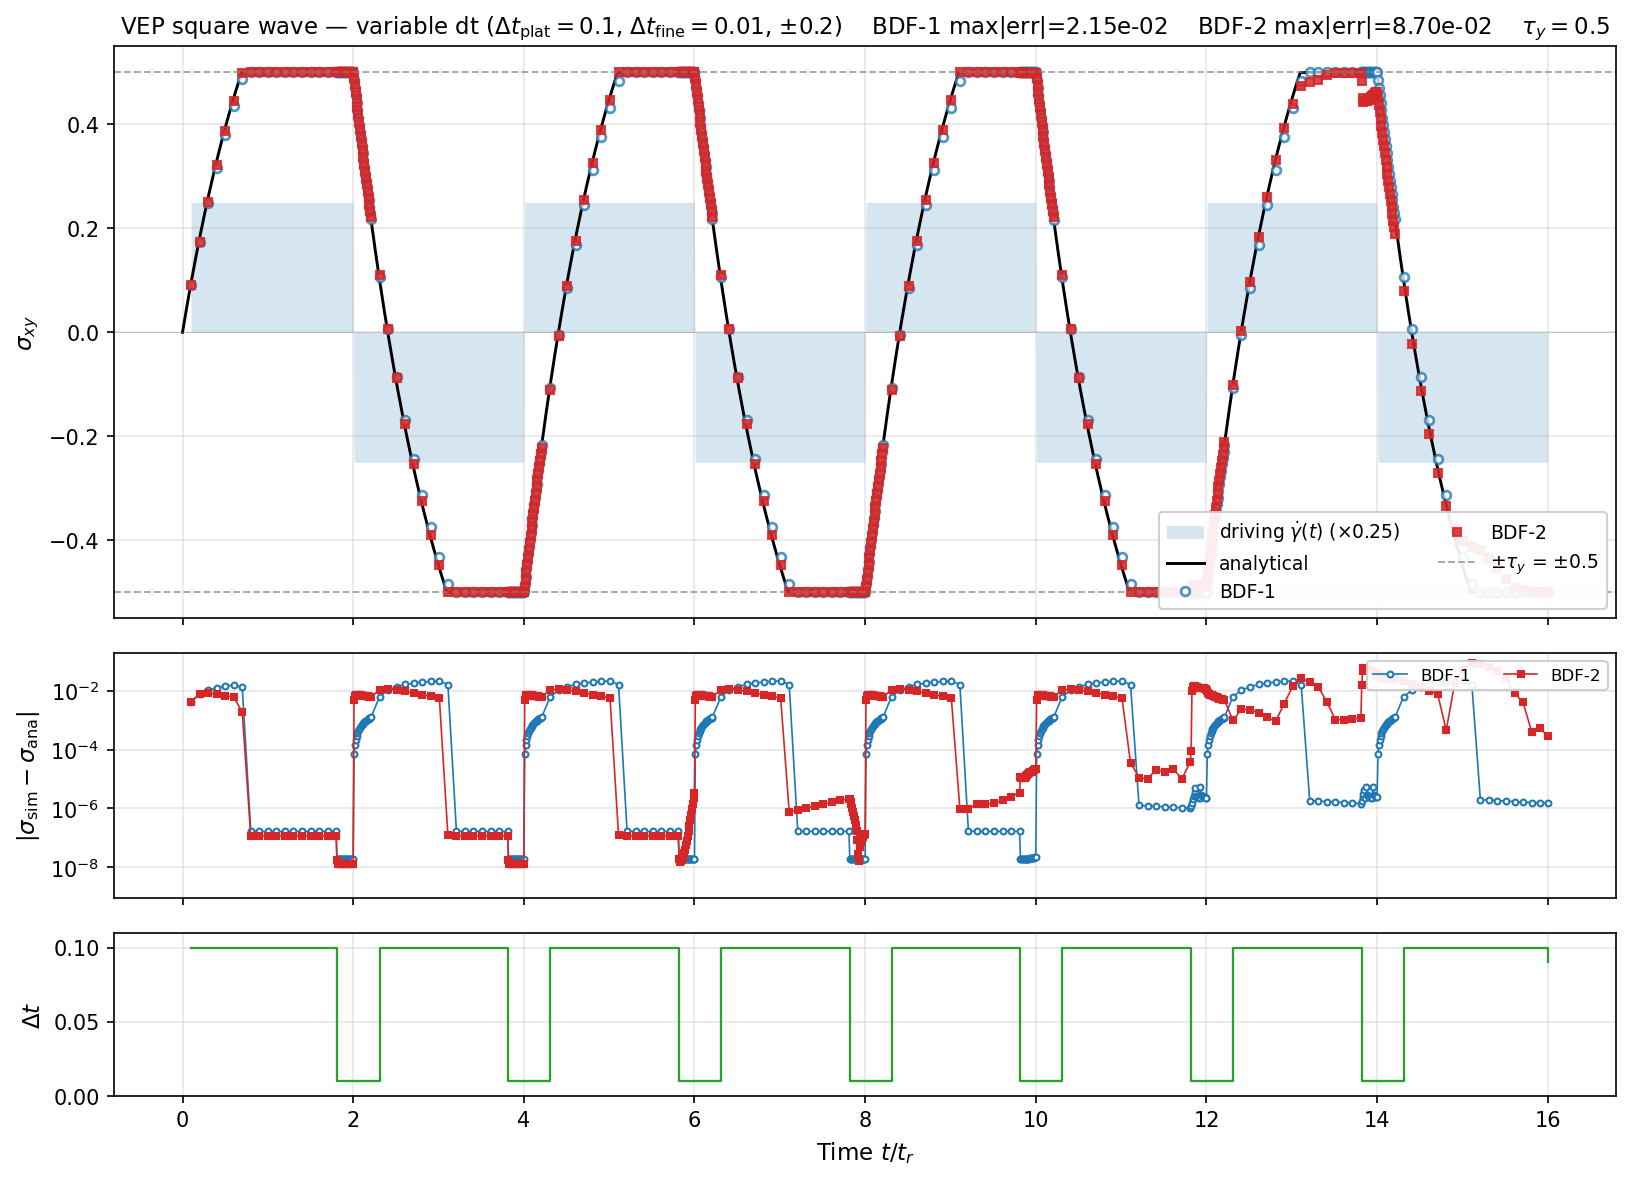
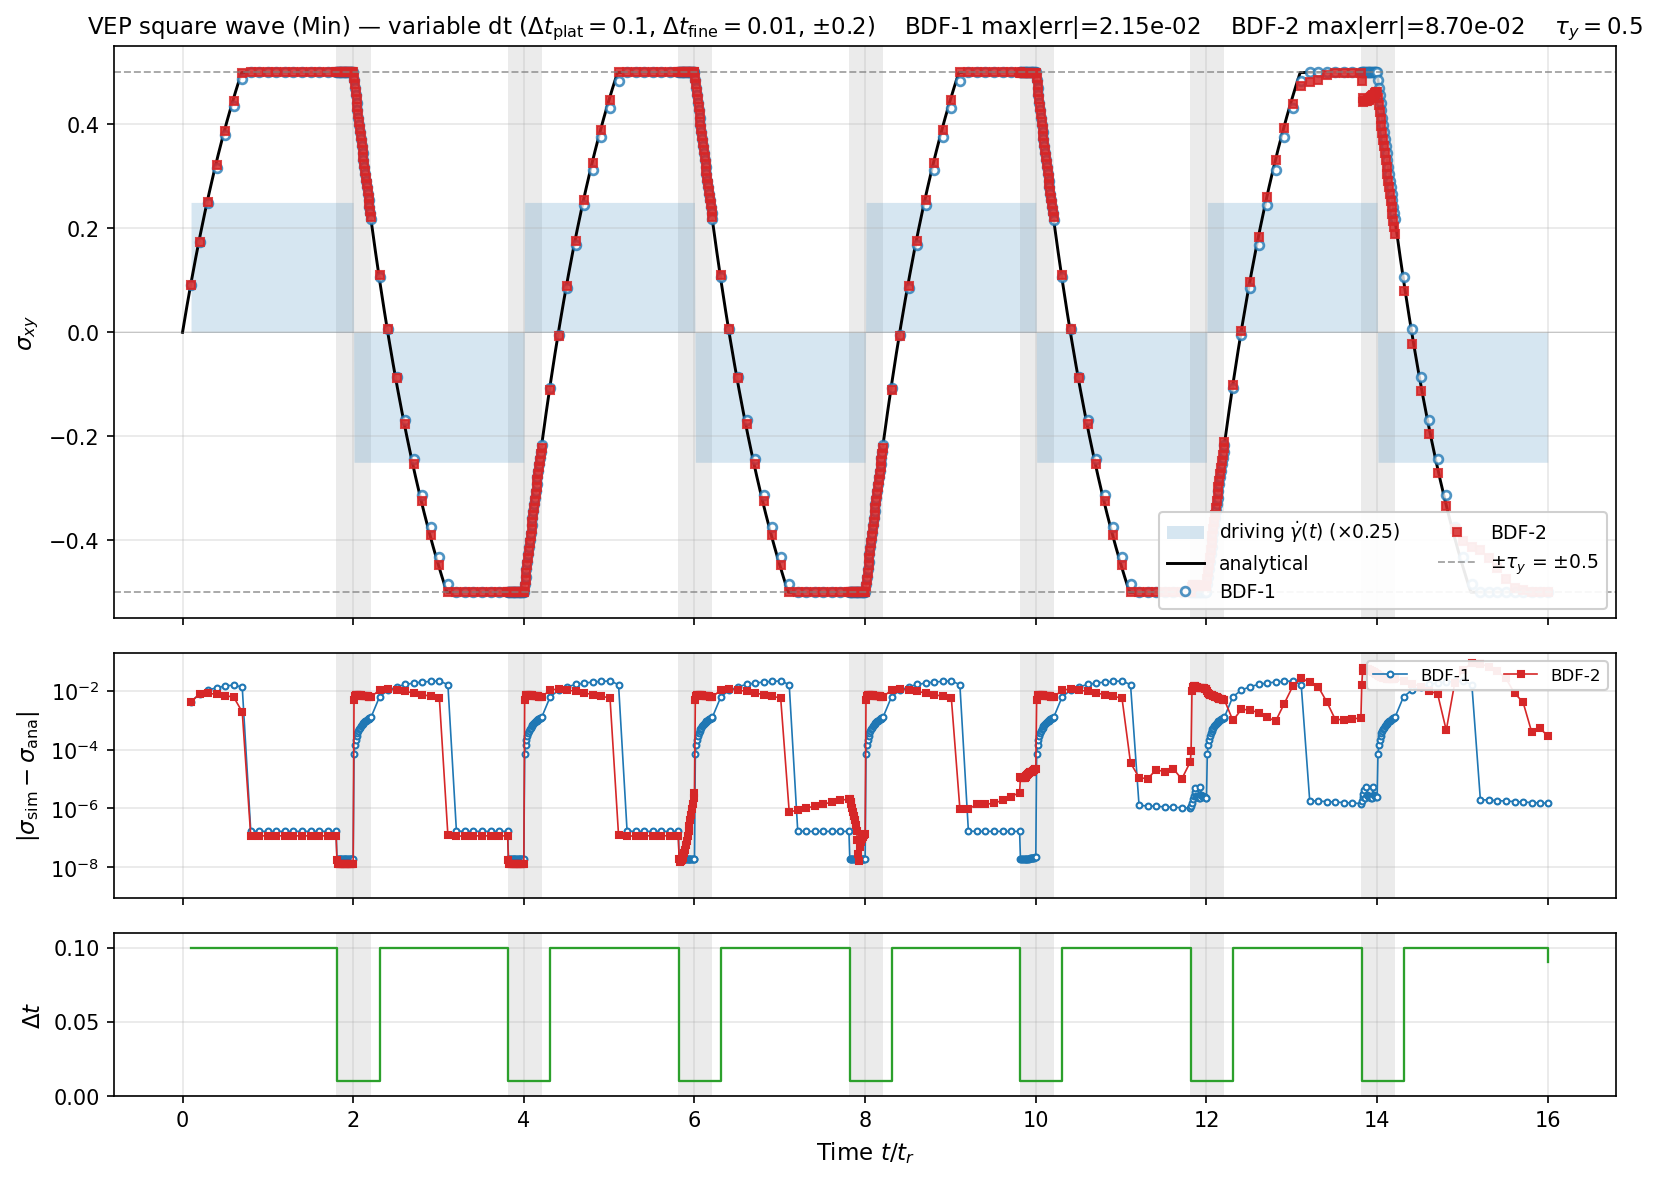
Variable-dt VEP softmin benchmark + fine-dt windows shaded on plots
Two changes:

1. New bench_vep_square_vardt_softmin.py — same variable-dt schedule
   as Min and smooth, with yield_mode="softmin" (default δ=0.1).

   Comparing peak |σ| across yield modes (variable dt, fine=0.01·t_r
   in ±0.20·t_r window around each flip):

      Min       BDF-1 0.5000  / BDF-2 0.5004   (100% of τ_y)
      softmin   BDF-1 0.4894  / BDF-2 0.4853   (98% of τ_y)
      smooth    BDF-1 0.2599  / BDF-2 0.2355   (52% / 47% of τ_y)

   Softmin gets within 2 % of true yield AND keeps smooth derivatives.
   Smooth mode under-clips by half — confirming the "smooth is broken"
   hypothesis.  Followup commit will retire smooth.

2. Plot improvement: every panel of the variable-dt three-panel layout
   now shades the fine-dt windows in light grey.  This was non-obvious
   in the previous plots — the dense marker clusters near the BC flips
   visually overlapped with the plateau-dt markers in σ-space, making
   it look like the schedule was drifting (it wasn't).  The shading
   makes the schedule unambiguous.

Underworld development team with AI support from Claude Code (https://claude.com/claude-code)

diff --git a/docs/advanced/benchmarks/bench_vep_square_vardt_softmin.py b/docs/advanced/benchmarks/bench_vep_square_vardt_softmin.py
@@ -1,0 +1,113 @@
+"""Variable-dt VEP square-wave benchmark — *softmin* yield mode.
+
+Counterpart to bench_vep_square_vardt (Min) and
+bench_vep_square_vardt_smooth (smooth blend).  Same dt schedule and
+forcing; the only change is ``yield_mode = "softmin"`` with the
+default softness δ = 0.1.
+
+Softmin replaces ``Min(η_ve, η_pl)`` with the smooth approximation
+
+    η_eff = η_ve / g(f),    g(f) = 1 + (f − 1 + √((f−1)² + δ²))/2 − offset
+
+which converges to true Min as δ → 0.  Default δ = 0.1 keeps continuous
+derivatives at the yield kink while staying close to Min in magnitude.
+"""
+
+import time
+import numpy as np
+import sympy
+from _bench_helpers import (
+    DEFAULT_PARAMS, build_stokes, probe_centre,
+    vep_square_wave, save_run, error_metrics,
+)
+
+
+V0 = 0.5
+TAU_Y = 0.5
+HALF_PERIOD = 2.0
+N_PERIODS = 4
+T_END = N_PERIODS * 2.0 * HALF_PERIOD
+
+DT_PLATEAU = 0.10
+DT_FINE_RATIO = 0.10
+DT_FINE = DT_PLATEAU * DT_FINE_RATIO
+WINDOW = 0.1 * HALF_PERIOD
+
+LABEL = "vep_square_vardt_softmin"
+
+
+def schedule_dt(t_cur):
+    flip_times = [HALF_PERIOD * (k + 1) for k in range(N_PERIODS * 2 - 1)]
+    for f in flip_times:
+        if abs(t_cur - f) <= WINDOW:
+            return DT_FINE
+    return DT_PLATEAU
+
+
+def _run_one(bdf_order):
+    params = dict(DEFAULT_PARAMS)
+    params["bdf_order"] = bdf_order
+    mesh, stokes, V_top, params = build_stokes(
+        f"{LABEL}_o{bdf_order}", params,
+        yield_stress=TAU_Y, yield_mode="softmin",
+    )
+    times, dts, sigmas, gammas, reasons = [], [], [], [], []
+    t_cur = 0.0
+    t0 = time.time()
+    while t_cur < T_END - 1e-9:
+        dt = schedule_dt(t_cur)
+        flip_next = next((HALF_PERIOD * (k + 1) for k in range(N_PERIODS * 2)
+                          if HALF_PERIOD * (k + 1) > t_cur + 1e-9), T_END)
+        dt = min(dt, flip_next - t_cur, T_END - t_cur)
+        t_end_step = t_cur + dt
+        n_half = int(t_end_step / HALF_PERIOD - 1e-9)
+        sign = 1.0 if n_half % 2 == 0 else -1.0
+        v_now = sign * V0
+        V_top.sym = sympy.Float(v_now)
+        stokes.constitutive_model.Parameters.dt_elastic = dt
+        stokes.solve(zero_init_guess=False, timestep=dt, divergence_retries=2)
+        sigmas.append(probe_centre(stokes))
+        t_cur = t_end_step
+        times.append(t_cur); dts.append(dt); gammas.append(2.0 * v_now / params["H"])
+        reasons.append(int(stokes.snes.getConvergedReason()))
+    return (np.array(times), np.array(dts), np.array(sigmas),
+            np.array(gammas), np.array(reasons), time.time() - t0, params)
+
+
+def main():
+    times1, dts1, sig1, gam1, rea1, wall1, params = _run_one(1)
+    times2, dts2, sig2, gam2, rea2, wall2, _      = _run_one(2)
+    assert np.allclose(times1, times2)
+    gamma_dot_0 = 2.0 * V0 / params["H"]
+    sigma_ana_min = vep_square_wave(times1, params["eta"], params["mu"],
+                                    gamma_dot_0, TAU_Y, HALF_PERIOD)
+    err1 = error_metrics(sig1, sigma_ana_min)
+    err2 = error_metrics(sig2, sigma_ana_min)
+    peak1 = float(np.abs(sig1).max()); peak2 = float(np.abs(sig2).max())
+    print(f"[{LABEL}]  steps={len(times1)}  τ_y={TAU_Y}  η·γ̇₀={params['eta']*gamma_dot_0:.4f}")
+    print(f"  schedule: plateau dt={DT_PLATEAU}, fine dt={DT_FINE} (×{DT_FINE_RATIO}), window=±{WINDOW}")
+    print(f"  yield_mode = softmin (default δ = 0.1)")
+    print(f"  BDF-1 wall={wall1:.1f}s peak|σ|={peak1:.4f}  ({100*peak1/TAU_Y:.1f}% of τ_y)  max|err vs Min-clip|={err1['max_abs']:.4e}  rms={err1['rms']:.4e}")
+    print(f"  BDF-2 wall={wall2:.1f}s peak|σ|={peak2:.4f}  ({100*peak2/TAU_Y:.1f}% of τ_y)  max|err vs Min-clip|={err2['max_abs']:.4e}  rms={err2['rms']:.4e}")
+
+    save_run(
+        LABEL,
+        params=params,
+        params_extra=dict(
+            V0=V0, half_period=HALF_PERIOD, n_periods=N_PERIODS,
+            tau_y=TAU_Y, gamma_dot_0=gamma_dot_0, t_end=T_END,
+            dt_plateau=DT_PLATEAU, dt_fine=DT_FINE, dt_fine_ratio=DT_FINE_RATIO,
+            window=WINDOW, yield_mode="softmin", yield_softness=0.1,
+            peak_bdf1=peak1, peak_bdf2=peak2,
+            err_max_bdf1=err1["max_abs"], err_rms_bdf1=err1["rms"],
+            err_max_bdf2=err2["max_abs"], err_rms_bdf2=err2["rms"],
+            wall_bdf1=wall1, wall_bdf2=wall2,
+        ),
+        times=times1, dts=dts1, gamma_dot=gam1, sigma_ana=sigma_ana_min,
+        sigma_bdf1=sig1, sigma_bdf2=sig2,
+        snes_reasons_bdf1=rea1, snes_reasons_bdf2=rea2,
+    )
+
+
+if __name__ == "__main__":
+    main()

diff --git a/docs/advanced/benchmarks/plot_benchmarks.py b/docs/advanced/benchmarks/plot_benchmarks.py
@@ -66,6 +66,30 @@ def _plot_three_panel(name, t_ana_grid, sigma_ana_grid, info, *, tau_y=None):
         gridspec_kw={"height_ratios": [3.5, 1.5, 1.0]},
     )
 
+    # If this is a variable-dt run, derive the fine-dt windows from
+    # the saved dt array (any step with dt < 0.5*max(dt) is "fine"),
+    # and shade those regions on every panel so the schedule is
+    # visually unambiguous against the marker density.
+    fine_thresh = 0.5 * float(np.max(dts))
+    fine_mask = dts < fine_thresh
+    fine_windows = []  # list of (t_start, t_end)
+    if fine_mask.any() and not fine_mask.all():
+        in_window = False
+        w_start = None
+        for i, (t, is_fine) in enumerate(zip(times, fine_mask)):
+            t_start = t - dts[i]
+            if is_fine and not in_window:
+                w_start = t_start
+                in_window = True
+            elif not is_fine and in_window:
+                fine_windows.append((w_start, times[i - 1]))
+                in_window = False
+        if in_window:
+            fine_windows.append((w_start, times[-1]))
+    for (a, b) in fine_windows:
+        for ax in (ax_top, ax_err, ax_dt):
+            ax.axvspan(a, b, color="0.85", alpha=0.5, linewidth=0, zorder=0)
+
     # --- Top: σ(t)
     sigma_max = float(np.max(np.abs(sigma_ana_grid))) or 1.0
     gamma_max = float(np.max(np.abs(gamma_dot))) or 1.0
@@ -232,6 +256,28 @@ def plot_vep_square_vardt():
     print(f"  wrote {out}")
 
 
+def plot_vep_square_vardt_softmin():
+    arrays, params, extra = load_run("vep_square_vardt_softmin")
+    eta, mu = params["eta"], params["mu"]
+    half_period = extra["half_period"]
+    tau_y = extra["tau_y"]
+    gd0 = extra["gamma_dot_0"]
+    from _bench_helpers import vep_square_wave
+    t_grid = np.linspace(0, arrays["times"][-1], 4000)
+    sigma_grid = vep_square_wave(t_grid, eta, mu, gd0, tau_y, half_period)
+    title = (
+        fr"VEP square wave (softmin, $\delta=0.1$) — variable dt "
+        fr"($\Delta t_{{\rm plat}}={extra['dt_plateau']:g}$, "
+        fr"$\Delta t_{{\rm fine}}={extra['dt_fine']:g}$, ±{extra['window']:g})"
+    )
+    fig = _plot_three_panel(title, t_grid, sigma_grid,
+                            (arrays, params, extra), tau_y=tau_y)
+    out = f"{FIG_DIR}/bench_vep_square_vardt_softmin.png"
+    fig.savefig(out, dpi=150, bbox_inches="tight")
+    plt.close(fig)
+    print(f"  wrote {out}")
+
+
 def plot_vep_square_vardt_smooth():
     arrays, params, extra = load_run("vep_square_vardt_smooth")
     eta, mu = params["eta"], params["mu"]
@@ -315,6 +361,7 @@ if __name__ == "__main__":
         (plot_vep_square, "vep_square"),
         (plot_ve_square_vardt, "ve_square_vardt"),
         (plot_vep_square_vardt, "vep_square_vardt"),
+        (plot_vep_square_vardt_softmin, "vep_square_vardt_softmin"),
         (plot_vep_square_vardt_smooth, "vep_square_vardt_smooth"),
         (plot_convergence, "convergence"),
     ]:
